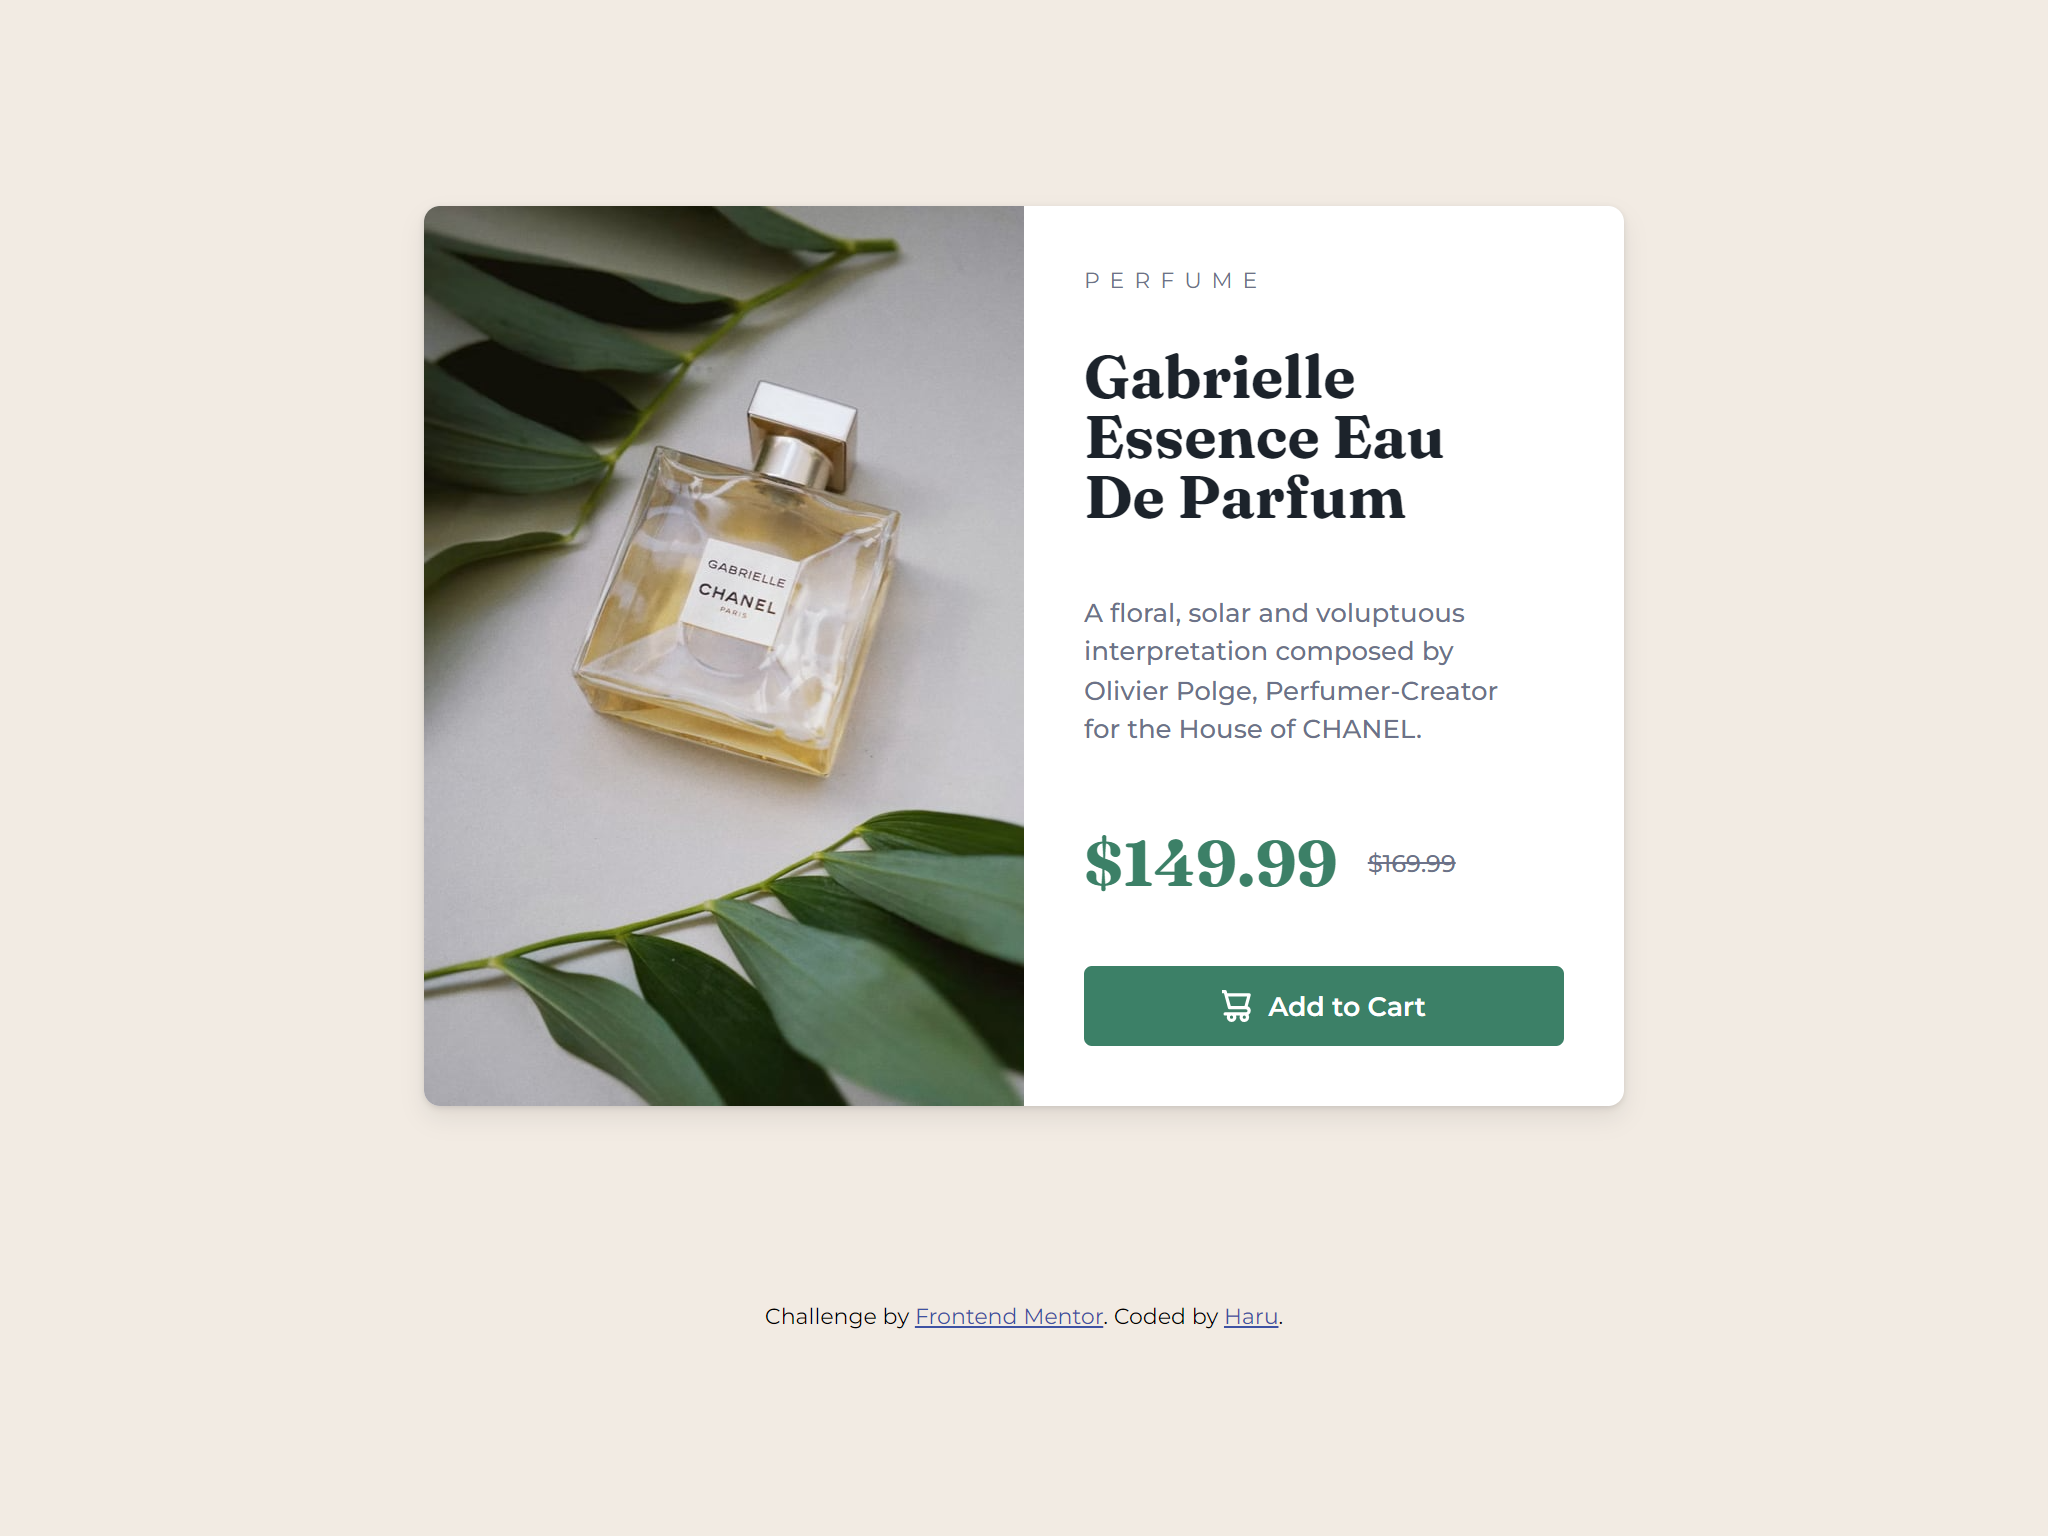
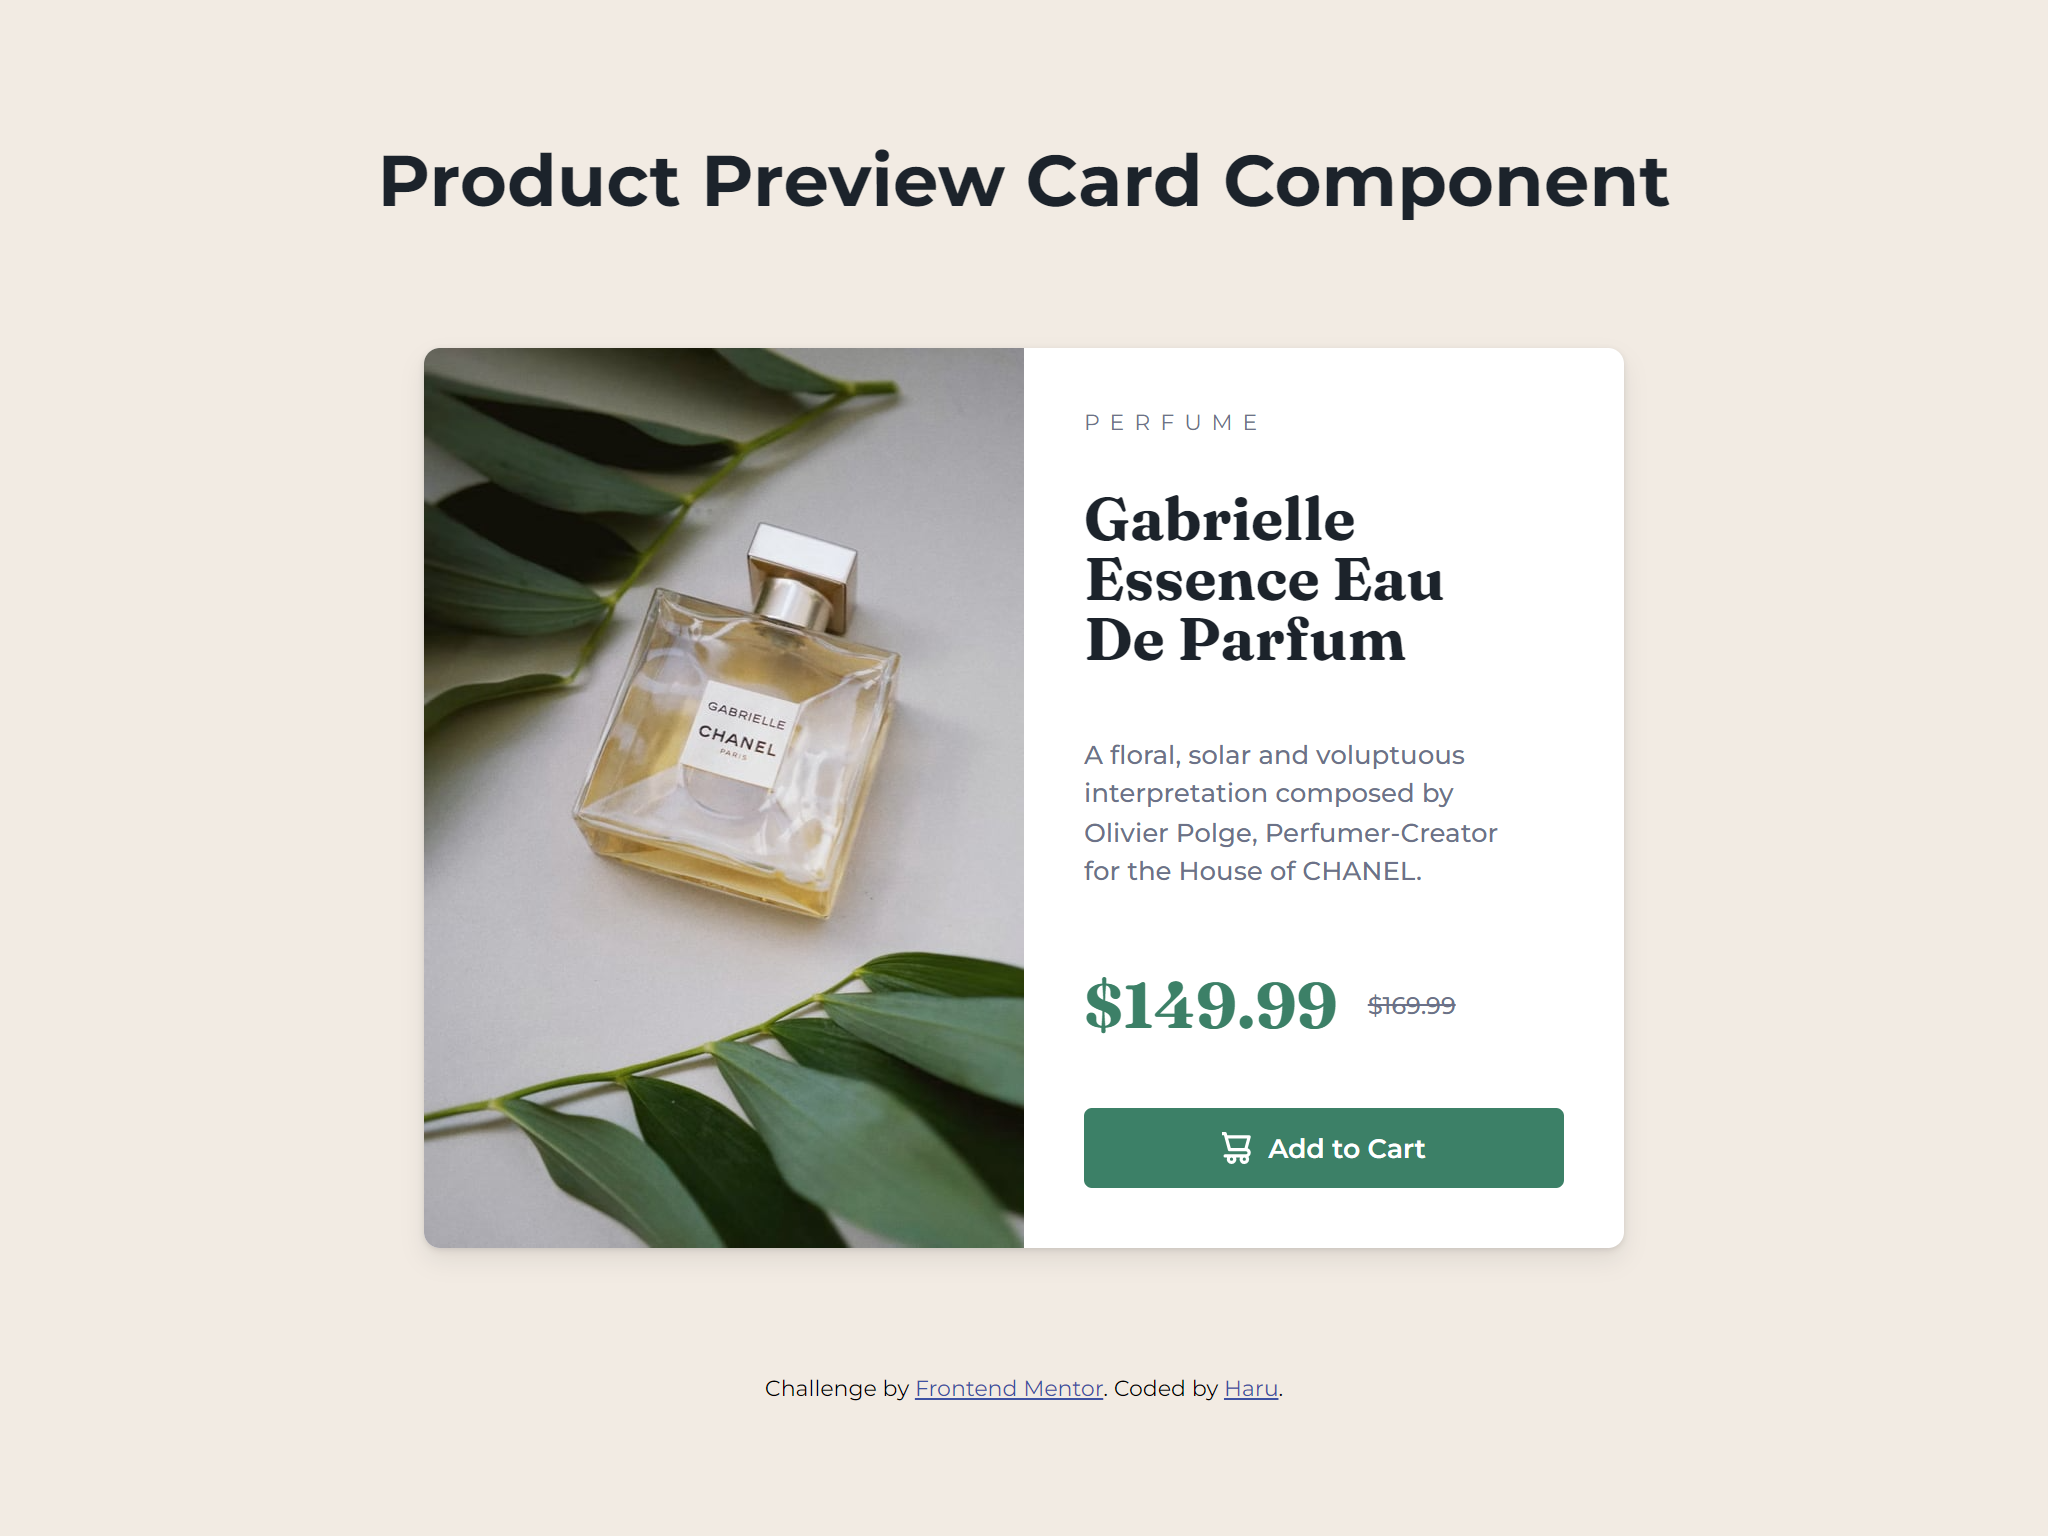
Added Header, Link and New Screenshot

Changed region(s): [[0.1875, 0.0938, 0.8125, 0.8125], [0.5312, 0.625, 0.7812, 0.6875], [0.375, 0.8438, 0.625, 0.875]]

diff --git a/index.html b/index.html
@@ -18,6 +18,9 @@
   </head>
   <body>
     <div class="wrapper">
+      <header>
+        <h1>Product preview card component</h1>
+      </header>
       <main class="content">
         <section class="product">
           <div class="product__img">
@@ -55,7 +58,8 @@
         Challenge by
         <a href="https://www.frontendmentor.io?ref=challenge" target="_blank"
           >Frontend Mentor</a
-        >. Coded by <a href="#">Haru</a>.
+        >. Coded by
+        <a href="https://www.frontendmentor.io/profile/phtm-haru">Haru</a>.
       </footer>
     </div>
   </body>

diff --git a/assets/css/style.css b/assets/css/style.css
@@ -58,6 +58,10 @@ button {
   row-gap: 20px;
 }
 
+header {
+  display: none;
+}
+
 /* Main */
 .content {
   display: flex;
@@ -174,6 +178,16 @@ button {
 
 /* Desktop */
 @media (min-width: 601px) {
+  header {
+    display: block;
+  }
+
+  header h1 {
+    text-transform: capitalize;
+    color: var(--dark-blue);
+    font-size: clamp(1.25rem, 5vw, 2.25rem);
+  }
+
   .product {
     max-width: 600px;
     flex-direction: row;

diff --git a/README.md b/README.md
@@ -29,7 +29,7 @@ Users should be able to:
 ### Links
 
 - Solution URL: [Solution](https://your-solution-url.com)
-- Live Site URL: [Live Site](https://your-live-site-url.com)
+- Live Site URL: [Live Site](https://phtm-haru.github.io/fem-product-preview-card-component/)
 
 ## My process
 
